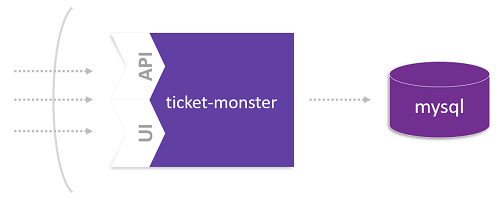
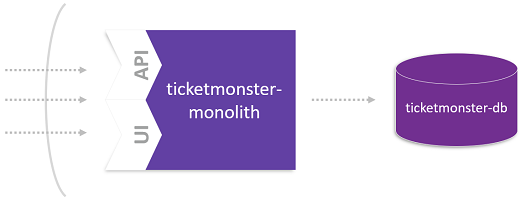
Update of image and lab 1

diff --git a/workshop/03_Monolith_to_Microservices/README.md b/workshop/03_Monolith_to_Microservices/README.md
@@ -2,7 +2,7 @@
 
 ![ticketmonster](assets/ticketmonster.png)
 
-In this module you'll learn how to migrate a monolithic application to the cloud and how to fearlessly break it up into microservices. Therefore, we want to walk you through the different stages of identifying and extracting a microservice, as well as strangling it around its origin – the monolith. For this purpose, the module provides step-by-step instructions and labs showing the best practices we have identified for migrating a monolith to the cloud. This module goes along a blog post series, which you can find [here](https://www.dynatrace.com/news/blog/fearless-monolith-to-microservices-migration-a-guided-journey/). Please look at the different blog posts to learn more about certain steps.
+In this module you'll learn how to migrate a monolithic application to the cloud and how to fearlessly break it up into microservices. Therefore, we want to walk you through the different stages of identifying and extracting a microservice, as well as strangling it around its origin – the monolith. For this purpose, the module provides step-by-step instructions and labs showing the best practices we have identified for migrating a monolith to the cloud. This module goes along a blog post series, which you can find [here](https://www.dynatrace.com/news/blog/fearless-monolith-to-microservices-migration-a-guided-journey/). Please look at the different blog posts to learn more about certain migration steps.
 
 # Requirements
 
@@ -20,7 +20,7 @@ Install the following tool(s):
     ```
     oc login <OurClusterIP:port>
     ```
-    * User: `wsXX` where XX is your assigned number<br>
+    * User: `wsXX` (`XX` is your assigned number)<br>
     * Password: ask instructor 
     
 1. After the successful login, create your own project:
@@ -31,8 +31,8 @@ Install the following tool(s):
 1. Set up a management zone for your OpenShift project
     1. Login to the Dynatrace tenant: tenant-url (Please ask instructor for Dynatrace tenant and login credentials.)
     1. From the left menu, choose the **Settings** tab.
-    1. From the Settings page, open **Preferences** and **Management zones**.
-    1. Click **Create management zone**  and set name to `ws-XX-mz` (XX... your assigned number).
+    1. In the Settings page, open **Preferences** and **Management zones**.
+    1. Click **Create management zone**  and set name to `ws-XX-mz` (`XX` is your assigned number).
     1. Click **Add new rule** and set rule applies to `Process groups`. 
     1. As condition define: `Kubernetes namespace` > `begins with` > enable `Case sensitive` > name of your project `ws-XX`
     1. Finally, click **Save**.

diff --git a/workshop/03_Monolith_to_Microservices/1_Lift-and-Shift_TicketMonster/README.md b/workshop/03_Monolith_to_Microservices/1_Lift-and-Shift_TicketMonster/README.md
@@ -1,6 +1,6 @@
 # Lift-and-shift TicketMonster to a Cloud Platform
 
-In this lab you'll learn how to move a monolithic application to a Cloud Platform, which is OpenShift. The applied moving approach follows a lift-and-shift concept. This means that the application will not be prepared for being Cloud-native, but rather taken as it is. Nevertheless, the database for the application will be service, which is running on OpenShift. 
+In this lab you'll learn how to move a monolithic application to a cloud platform, OpenShift in this case. The applied moving approach follows a lift-and-shift concept. This means that the application will not be prepared for being Cloud-native, but rather taken as it is. Nevertheless, the database for the application will be a service that runs on OpenShift. 
 
 ![lift-and-shift](../assets/lift_and_shift.png)
 
@@ -8,7 +8,7 @@ In this lab you'll learn how to move a monolithic application to a Cloud Platfor
 
 1. Deploy a MySQL database service
     ```
-    oc new-app -e MYSQL_USER=ticket -e MYSQL_PASSWORD=monster -e MYSQL_DATABASE=ticketmonster mysql:5.5 ((--name=ticket-db))
+    oc new-app --name=ticketmonster-db -e MYSQL_USER=ticket -e MYSQL_PASSWORD=monster -e MYSQL_DATABASE=ticketmonster mysql:5.5
     ```
 
 1. Get the IP of the service
@@ -16,16 +16,16 @@ In this lab you'll learn how to move a monolithic application to a Cloud Platfor
     oc get svc
     ```
 
-## Step 2: Deploy TicketMonster, the Monolith
+## Step 2: Deploy TicketMonster
 
 1. Create a new application
     ```
-    oc new-app -e MYSQL_SERVICE_HOST=mysql -e MYSQL_SERVICE_PORT=3306 --docker-image=dynatracesockshop/ticket-monster-monolith:latest
+    oc new-app -e MYSQL_SERVICE_HOST=ticketmonster-db -e MYSQL_SERVICE_PORT=3306 --docker-image=dynatraceacm/ticketmonster-monolith:latest
     ```
 
 1. Expose the TicketMonster service
     ```
-    oc expose service ticket-monster-monolith --name=monolith 
+    oc expose service ticketmonster-monolith --name=monolith 
     ```
 
 ## Step 3: Test your TicketMonster
